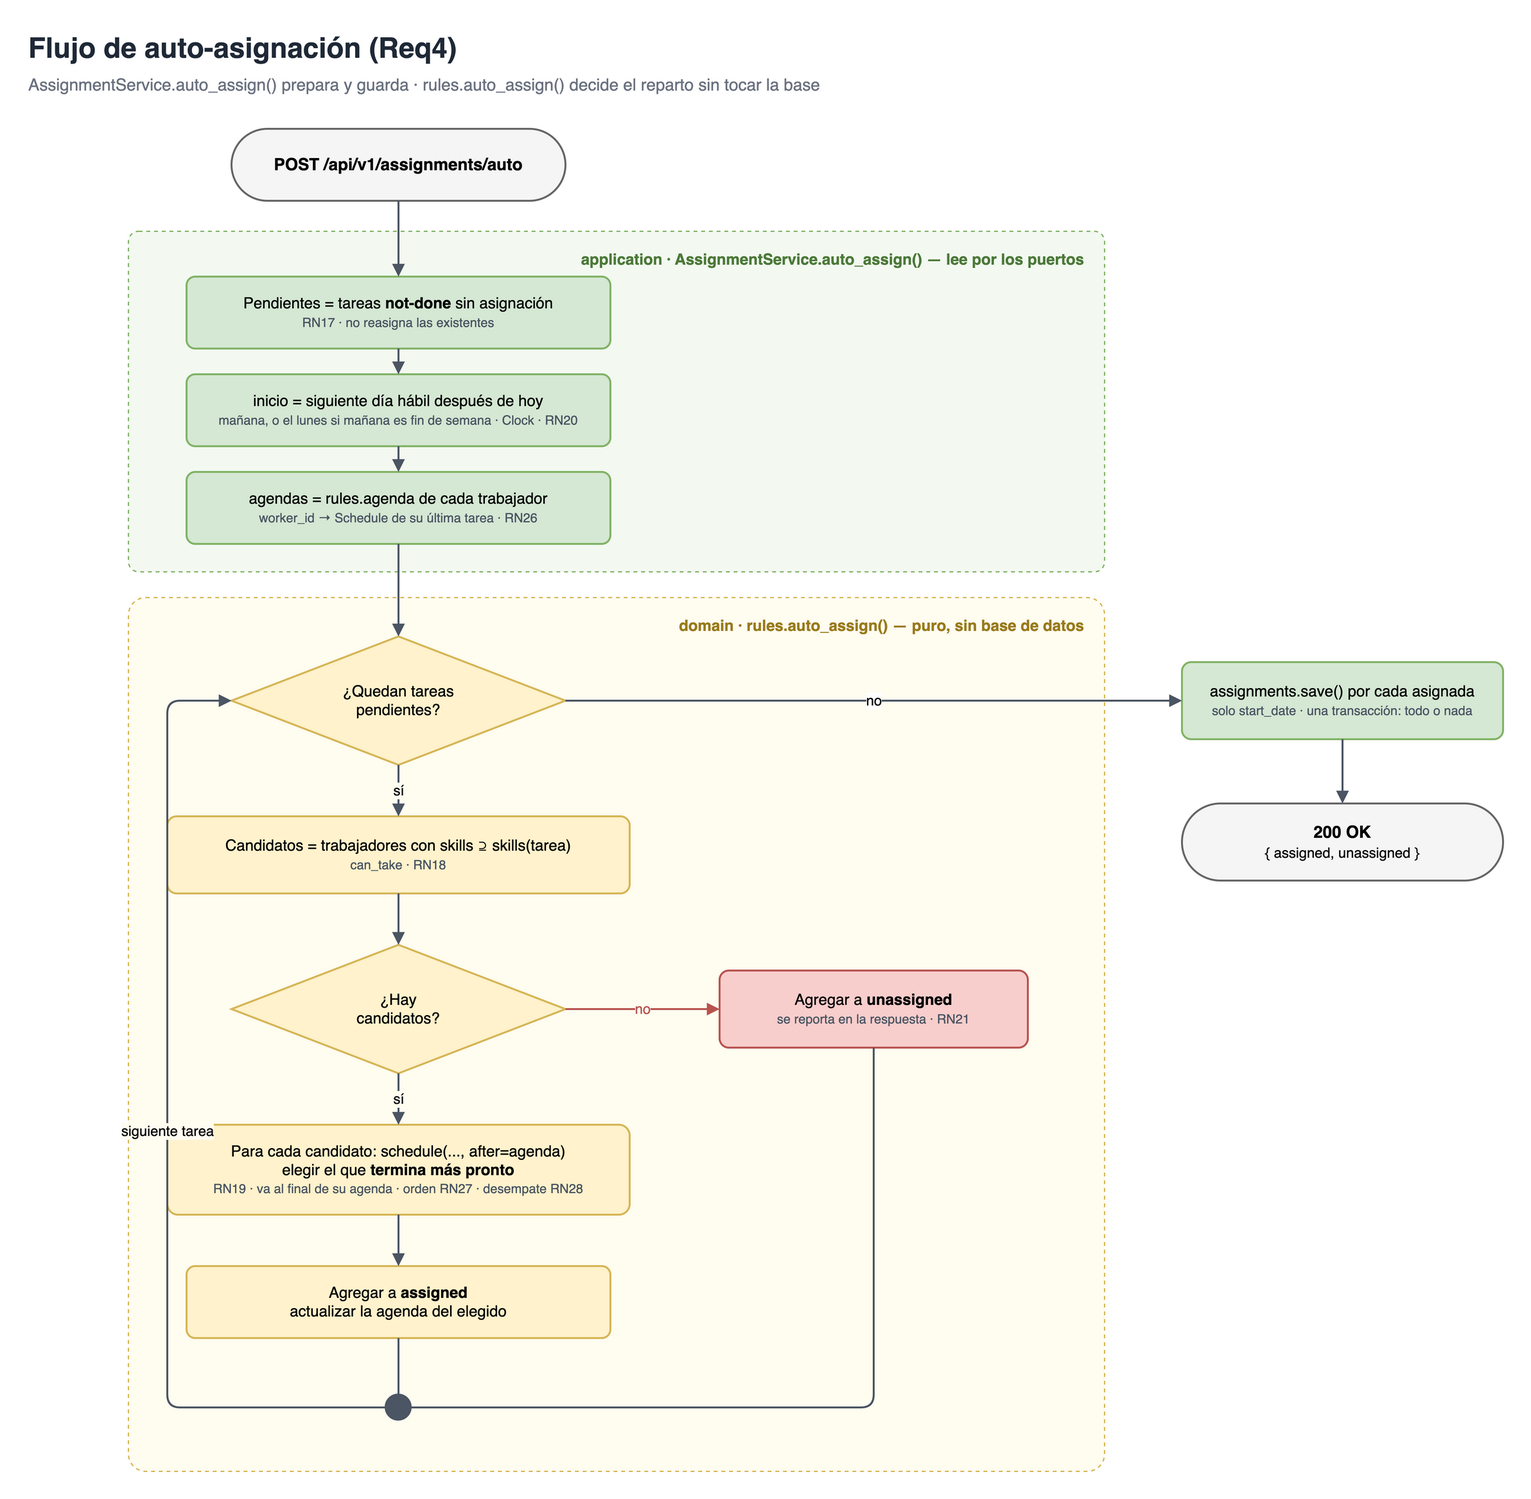
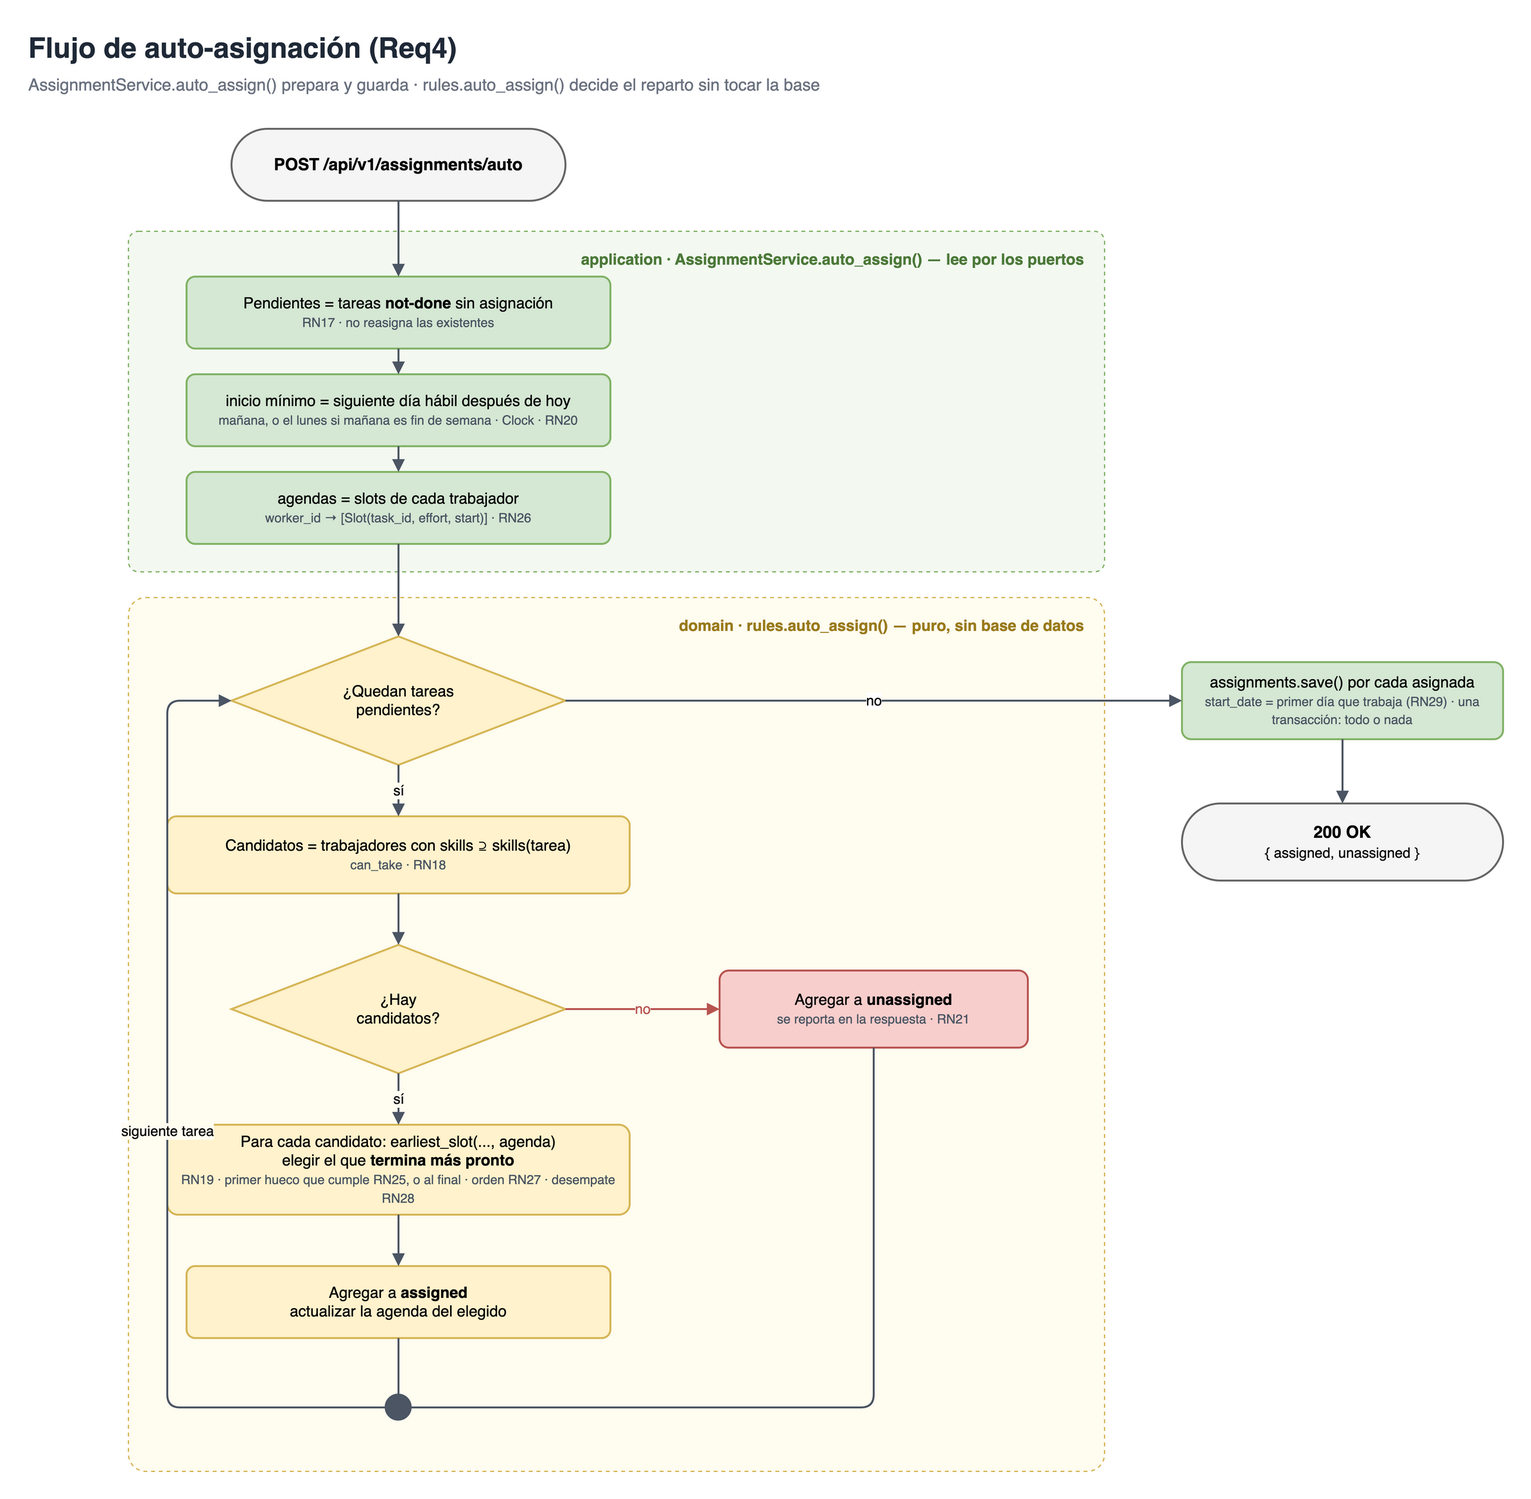
FEAT: Re-scoping business rules v3

diff --git a/backend/app/domain/rules.py b/backend/app/domain/rules.py
@@ -6,7 +6,7 @@ rápidos y con muchos casos borde.
 
 from collections.abc import Iterable
 from dataclasses import dataclass
-from datetime import date
+from datetime import date, timedelta
 
 from app.domain.models import Schedule, Task, Worker
 
@@ -65,6 +65,26 @@ def late_starts(slots: list[Slot], availability: int) -> list[int]:
     raise NotImplementedError("RN25")
 
 
+def earliest_slot(task_id: int, effort: int, availability: int, start: date, slots: list[Slot]) -> tuple[Slot, Schedule]:
+    """Primer día hábil desde `start` en que la tarea cabe en la agenda (RN19, RN29): trabaja al menos
+    1 h ese día y ninguna otra tarea pierde su día de inicio (RN25). Devuelve el slot y sus fechas.
+
+    - Usa los huecos libres antes de tareas futuras; la nueva va después de las que inician el mismo día (RN15).
+    - Un inicio más temprano nunca termina más tarde, así que el primer día válido es el que termina más pronto.
+    - Después de la última tarea de la agenda siempre cabe, así que el recorrido termina.
+    - Las tareas que ya perdían su día de inicio antes de insertar no bloquean.
+    """
+    before = set(late_starts(slots, availability))
+    day = start
+    while True:
+        if day.weekday() < 5:  # RN12, RN13
+            slot = Slot(task_id=task_id, effort=effort, start=day)
+            trial = [*slots, slot]
+            if not set(late_starts(trial, availability)) - before:
+                return slot, agenda(trial, availability)[task_id]
+        day += timedelta(days=1)
+
+
 # ---------------------------------------------------------------------------
 # Auto-asignación (RN18, RN19, RN21, RN27, RN28)
 # ---------------------------------------------------------------------------
@@ -105,18 +125,20 @@ def auto_assign(
     tasks: list[Task],
     workers: list[Worker],
     start: date,
-    agendas: dict[int, Schedule] | None = None,
+    agendas: dict[int, list[Slot]] | None = None,
 ) -> AutoAssignResult:
-    """Reparte `tasks` (ya filtradas: not-done y sin asignar) entre `workers`.
+    """Reparte `tasks` (ya filtradas: not-done, sin asignar y guardadas) entre `workers`.
 
     - Candidatos: trabajadores que cumplen las skills (RN18).
     - Recorre las tareas según `task_priority` (RN27).
+    - En cada candidato la tarea entra en el primer hueco donde cabe, o al final (`earliest_slot`, RN29).
     - Elige al candidato según `worker_priority`: el que termina más pronto según su agenda (RN19)
       y, si empatan, el desempate de RN28. La agenda se actualiza en la misma corrida.
-    - `agendas`: worker_id -> última tarea programada de ese trabajador; las nuevas van al final.
+    - `agendas`: worker_id -> slots de su agenda actual, en orden de asignación.
     - Si nadie cumple las skills, la tarea va a `unassigned` (RN21).
     """
-    last: dict[int | None, Schedule] = dict(agendas or {})  # copia: la corrida no modifica la agenda recibida
+    # copia: la corrida no modifica la agenda recibida
+    slots: dict[int | None, list[Slot]] = {worker_id: list(s) for worker_id, s in (agendas or {}).items()}
     pending = [(task, [w for w in workers if can_take(task.skills, w.skills)]) for task in tasks]
     pending.sort(key=lambda pair: task_priority(*pair))
 
@@ -126,8 +148,11 @@ def auto_assign(
         if not candidates:
             unassigned.append(task)
             continue
-        options = [(w, schedule(task.effort, w.availability, start, last.get(w.id))) for w in candidates]
-        worker, planned = min(options, key=lambda option: worker_priority(*option))
-        last[worker.id] = planned
+        assert task.id is not None
+        options = [
+            (w, *earliest_slot(task.id, task.effort, w.availability, start, slots.get(w.id, []))) for w in candidates
+        ]
+        worker, slot, planned = min(options, key=lambda option: worker_priority(option[0], option[2]))
+        slots.setdefault(worker.id, []).append(slot)
         assigned.append(Planned(task=task, worker=worker, schedule=planned))
     return AutoAssignResult(assigned=assigned, unassigned=unassigned)

diff --git a/backend/tests/unit/test_auto_assign.py b/backend/tests/unit/test_auto_assign.py
@@ -1,13 +1,15 @@
-from app.domain.models import Schedule, Task, Worker
-from app.domain.rules import auto_assign
-from tests.dates import MON_19, TUE_20, WED_21
+import pytest
+
+from app.domain.models import Task, Worker
+from app.domain.rules import Slot, auto_assign
+from tests.dates import FRI_23, MON_19, THU_22, TUE_20, TUE_27
 
 
 def test_esc23_elige_al_que_termina_antes_segun_su_agenda():
     ana = Worker(id=1, name="Ana", availability=6, skills=["python"])
     luis = Worker(id=2, name="Luis", availability=6, skills=["python"])
     task = Task(id=1, name="API", effort=6, skills=["python"])
-    agendas = {ana.id: Schedule(start=MON_19, end=WED_21, last_day_hours=6)}
+    agendas = {ana.id: [Slot(task_id=99, effort=18, start=MON_19)]}  # ocupada lun 19 a mié 21
 
     result = auto_assign([task], [ana, luis], MON_19, agendas)
 
@@ -88,3 +90,36 @@ def test_esc45_si_dos_candidatos_terminan_el_mismo_dia_gana_el_de_menor_id():
 
     [planned] = result.assigned
     assert planned.worker is luis
+
+
+@pytest.mark.parametrize(
+    ("effort", "start", "end"),
+    [
+        pytest.param(4, TUE_20, TUE_20, id="cabe-en-el-hueco"),
+        pytest.param(14, TUE_20, THU_22, id="corre-el-fin-de-f-sin-quitarle-su-dia"),
+        pytest.param(18, FRI_23, TUE_27, id="en-el-hueco-f-perderia-su-dia-va-despues"),
+    ],
+)
+def test_esc50_usa_el_hueco_libre_antes_de_una_tarea_futura(effort, start, end):
+    ana = Worker(id=1, name="Ana", availability=6, skills=["python"])
+    task = Task(id=1, name="T", effort=effort, skills=["python"])
+    agendas = {ana.id: [Slot(task_id=99, effort=6, start=THU_22)]}  # F: libre mar 20 y mié 21
+
+    result = auto_assign([task], [ana], TUE_20, agendas)
+
+    [planned] = result.assigned
+    assert (planned.schedule.start, planned.schedule.end) == (start, end)
+
+
+def test_esc50_el_hueco_cuenta_para_elegir_al_que_termina_antes():
+    # Si la tarea fuera al final de la agenda, Ana terminaría el vie 23 y ganaría Luis (mié 21)
+    luis = Worker(id=1, name="Luis", availability=4, skills=["python"])
+    ana = Worker(id=2, name="Ana", availability=6, skills=["python"])
+    task = Task(id=1, name="T", effort=6, skills=["python"])
+    agendas = {ana.id: [Slot(task_id=99, effort=6, start=THU_22)]}
+
+    result = auto_assign([task], [luis, ana], TUE_20, agendas)
+
+    [planned] = result.assigned
+    assert planned.worker is ana
+    assert planned.schedule.end == TUE_20

diff --git a/backend/tests/application/test_auto_assign_pending.py b/backend/tests/application/test_auto_assign_pending.py
@@ -1,7 +1,7 @@
 import pytest
 
 from app.application.assignments import AssignmentService
-from tests.dates import FRI_23, MON_19, MON_26, SAT_24, TUE_20
+from tests.dates import FRI_16, FRI_23, MON_19, MON_26, SAT_24, THU_22, TUE_20, WED_21
 from tests.fakes import FixedClock, InMemoryAssignmentRepository
 
 
@@ -47,3 +47,35 @@ def test_esc28_la_fecha_de_inicio_es_el_siguiente_dia_habil(
 
     [assigned] = report.assigned
     assert assigned.start_date == start
+
+
+@pytest.mark.parametrize(
+    ("effort", "busy_start", "status", "start", "end"),
+    [
+        pytest.param(6, FRI_16, "done", TUE_20, TUE_20, id="la-tarea-pasada-no-cuenta"),
+        pytest.param(4, MON_19, "not-done", TUE_20, TUE_20, id="no-usa-las-horas-que-sobran-hoy"),
+        pytest.param(10, TUE_20, "not-done", WED_21, THU_22, id="usa-las-horas-que-sobran-del-miercoles"),
+        pytest.param(12, TUE_20, "not-done", THU_22, THU_22, id="el-miercoles-esta-lleno"),
+        pytest.param(6, THU_22, "not-done", TUE_20, TUE_20, id="usa-el-hueco-antes-de-una-tarea-futura"),
+    ],
+)
+def test_esc47_con_la_agenda_ocupada_se_guarda_el_primer_dia_que_trabaja(
+    assignment_service: AssignmentService,
+    make_task,
+    make_worker,
+    make_assignment,
+    effort,
+    busy_start,
+    status,
+    start,
+    end,
+):
+    ana = make_worker("Ana", skills=["python"])
+    make_assignment(make_task("B", effort, ["python"], status=status), ana, busy_start)
+    t = make_task("T", 4, ["python"])
+
+    report = assignment_service.auto_assign()
+
+    [assigned] = report.assigned
+    assert assigned.task_id == t.id
+    assert (assigned.start_date, assigned.end_date) == (start, end)

diff --git a/backend/app/application/assignments.py b/backend/app/application/assignments.py
@@ -55,5 +55,6 @@ class AssignmentService:
 
     def auto_assign(self) -> AutoAssignReport:
         # Toma solo tareas not-done sin asignar (RN17) e inicia el siguiente día hábil después de hoy (RN20)
-        # El reparto lo decide rules.auto_assign (RN18, RN19, RN21); cada tarea va al final de la agenda
+        # El reparto lo decide rules.auto_assign (RN18, RN19, RN21) con la agenda de cada trabajador como Slots;
+        # cada tarea entra en el primer hueco donde cabe sin correr a nadie de su día de inicio, o al final (RN29)
         raise NotImplementedError("Req4, RN17 a RN21")

diff --git a/backend/tests/unit/test_schedule.py b/backend/tests/unit/test_schedule.py
@@ -61,3 +61,11 @@ def test_esc15_tarea_de_varios_dias(effort, end, last_day_hours):
     result = schedule(effort, AVAILABILITY, MON_19)
 
     assert result == Schedule(start=MON_19, end=end, last_day_hours=last_day_hours)
+
+
+def test_esc48_si_la_anterior_termina_antes_del_inicio_no_le_quita_horas():
+    a = schedule(4, AVAILABILITY, MON_19)  # le sobran 2 h el lun 19
+
+    b = schedule(4, AVAILABILITY, TUE_20, after=a)
+
+    assert b == Schedule(start=TUE_20, end=TUE_20, last_day_hours=4)

diff --git a/backend/tests/dates.py b/backend/tests/dates.py
@@ -13,3 +13,4 @@ FRI_23 = date(2026, 10, 23)
 SAT_24 = date(2026, 10, 24)
 SUN_25 = date(2026, 10, 25)
 MON_26 = date(2026, 10, 26)
+TUE_27 = date(2026, 10, 27)

diff --git a/docs/testing/bdd.md b/docs/testing/bdd.md
@@ -27,9 +27,9 @@
 
 Para que las fechas sean fijas, los escenarios usan este calendario:
 
-| vie | sáb | dom | lun | mar | mié | jue | vie | sáb | dom | lun |
-|-----|-----|-----|-----|-----|-----|-----|-----|-----|-----|-----|
-| 16-oct | 17-oct | 18-oct | **19-oct** | 20-oct | 21-oct | 22-oct | 23-oct | 24-oct | 25-oct | 26-oct |
+| vie | sáb | dom | lun | mar | mié | jue | vie | sáb | dom | lun | mar |
+|-----|-----|-----|-----|-----|-----|-----|-----|-----|-----|-----|-----|
+| 16-oct | 17-oct | 18-oct | **19-oct** | 20-oct | 21-oct | 22-oct | 23-oct | 24-oct | 25-oct | 26-oct | 27-oct |
 
 - En application e integration, **hoy = lun 19-oct-2026** salvo que el escenario diga otra cosa.
 - Salvo que se indique, el trabajador tiene **6 h/día**.
@@ -319,7 +319,7 @@ Archivos: `backend/tests/integration/test_assignments_api.py` (ESC-16) y `backen
 
 ## 6. Auto-asignación (Req4)
 
-Archivos: `backend/tests/unit/test_auto_assign.py` (ESC-23 a ESC-26, ESC-43 a ESC-45), `backend/tests/application/test_auto_assign_pending.py` (ESC-27, ESC-28) y `backend/tests/integration/test_auto_assign_api.py` (ESC-29)
+Archivos: `backend/tests/unit/test_auto_assign.py` (ESC-23 a ESC-26, ESC-43 a ESC-45, ESC-50), `backend/tests/application/test_auto_assign_pending.py` (ESC-27, ESC-28, ESC-47) y `backend/tests/integration/test_auto_assign_api.py` (ESC-29)
 
 ### ESC-23 · Elige al que termina antes según su agenda
 `RN19` · `unit`
@@ -370,6 +370,21 @@ Archivos: `backend/tests/unit/test_auto_assign.py` (ESC-23 a ESC-26, ESC-43 a ES
 - **Cuando** auto-asigno una tarea de 6 h desde lun 19
 - **Entonces** queda asignada a "Luis"
 
+### ESC-50 · Usa el hueco libre antes de una tarea futura · edge
+`RN19`, `RN25`, `RN29` · `unit`
+
+- **Dado** que "Ana" (6 h/día) solo tiene F (6 h, inicio jue 22)
+- **Cuando** auto-asigno la tarea T de `<esfuerzo>` desde mar 20
+- **Entonces** T inicia el `<inicio>` y termina el `<fin>`
+
+| esfuerzo | inicio | fin | nota |
+|----------|--------|-----|------|
+| 4 h | mar 20 | mar 20 | cabe en el hueco de mar 20 y mié 21 |
+| 14 h | mar 20 | jue 22 | corre el fin de F, que conserva 4 h el jue 22 |
+| 18 h | vie 23 | mar 27 | edge: en el hueco F perdería su día de inicio; va después de F |
+
+- **Y si** "Luis" (4 h/día, libre) también es candidato y T es de 6 h, queda asignada a "Ana" (termina mar 20; Luis terminaría mié 21, y al final de la agenda Ana terminaría vie 23)
+
 ### ESC-27 · Asigna solo las tareas pendientes y no toca las existentes
 `RN17` · `application`
 
@@ -406,6 +421,7 @@ Archivos: `backend/tests/unit/test_auto_assign.py` (ESC-23 a ESC-26, ESC-43 a ES
 | B (4 h, inicio lun 19) | mar 20 | mar 20 | no usa las 2 h que sobran hoy |
 | B (10 h, inicio mar 20) | mié 21 | jue 22 | usa las 2 h que sobran del mié |
 | B (12 h, inicio mar 20) | jue 22 | jue 22 | el mié está lleno |
+| B (6 h, inicio jue 22) | mar 20 | mar 20 | usa el hueco antes de la tarea futura (RN19) |
 
 ### ESC-29 · La respuesta reporta las tareas que no se pudieron asignar
 `RN21` · `integration`
@@ -555,17 +571,17 @@ Archivos: `e2e/tests/smoke.spec.ts` (ESC-33) y `e2e/tests/demo.spec.ts` (ESC-34 
 | RN16 | ESC-09, ESC-10, ESC-14, ESC-15 |
 | RN17 | ESC-27 |
 | RN18 | ESC-26 |
-| RN19 | ESC-23, ESC-24, ESC-25 |
+| RN19 | ESC-23, ESC-24, ESC-25, ESC-47, ESC-50 |
 | RN20 | ESC-28, ESC-47, ESC-48 |
 | RN21 | ESC-26, ESC-29 |
 | RN22 | ESC-30, ESC-42 |
 | RN23 | ESC-31 |
 | RN24 | ESC-32, ESC-37, ESC-49 |
-| RN25 | ESC-37, ESC-39, ESC-40, ESC-41, ESC-42, ESC-46, ESC-47 |
+| RN25 | ESC-37, ESC-39, ESC-40, ESC-41, ESC-42, ESC-46, ESC-47, ESC-50 |
 | RN26 | ESC-30, ESC-38, ESC-40, ESC-49 |
 | RN27 | ESC-43, ESC-44 |
 | RN28 | ESC-45 |
-| RN29 | ESC-47 |
+| RN29 | ESC-47, ESC-50 |
 | RN30 | ESC-37, ESC-49 |
 
 ---
@@ -581,6 +597,7 @@ Al escribir los escenarios aparecieron ambigüedades que las reglas actuales no 
 - **Algoritmo de la auto-asignación:** v1 provisional: las tareas se recorren *most-constrained-first* y, si empatan, por menor id. Pasó a RN27 (ESC-43, ESC-44).
 - **Empate en RN19:** v1 provisional: gana el candidato de menor id. Pasó a RN28 (ESC-45).
 - **Inicio de la auto-asignación con la agenda ocupada:** se guarda el primer día en que la tarea trabaja horas, y las tareas que terminan antes de la fecha de RN20 no cuentan. Pasó a RN20 y RN29 (ESC-47, ESC-48).
+- **Huecos libres antes de una tarea futura:** la auto-asignación usa el primer hueco donde la tarea cabe sin que nadie pierda su día de inicio; si no cabe en ninguno, va al final. Pasó a RN19 y RN29 (ESC-47, ESC-50).
 - **Desasignar:** se puede eliminar una asignación y después borrar la tarea. Pasó a RN30 (ESC-49).
 
 **Pendiente de mejorar:** RN27 y RN28 son una primera versión. El algoritmo está aislado en `task_priority` y `worker_priority` (`app/domain/rules.py`); al cambiarlo, ESC-23 a ESC-26 deben seguir pasando y ESC-43 a ESC-45 se reemplazan por los escenarios de la nueva versión.

diff --git a/docs/alcance/negocio.md b/docs/alcance/negocio.md
@@ -73,9 +73,9 @@
 
 - **RN17:** Asigna de una sola vez todas las tareas `not-done` sin asignar; no reasigna las existentes **(decisión)**.
 - **RN18:** Para cada tarea, los candidatos son los trabajadores que cumplen RN6 **(enunciado)**.
-- **RN19:** Entre los candidatos, elige al que termina la tarea más pronto, según su agenda actual; la tarea va al final de esa agenda **(decisión)**. El orden de recorrido y el desempate los fijan RN27 y RN28.
+- **RN19:** Entre los candidatos, elige al que termina la tarea más pronto, según su agenda actual. La tarea entra en el primer hueco de esa agenda donde cabe sin que ninguna tarea pierda su día de inicio (RN25); si no cabe en ningún hueco, va al final **(decisión)**. El orden de recorrido y el desempate los fijan RN27 y RN28.
 - **RN20:** La auto-asignación no programa nada antes del siguiente día hábil después de hoy: mañana, o el lunes si mañana cae en fin de semana. Las tareas de la agenda que terminan antes de esa fecha (incluidas las `done`, RN23) no le quitan horas, y tampoco se usan las horas que sobran de hoy **(decisión)**.
-- **RN29:** La agenda del trabajador puede estar ocupada. La fecha de inicio que se guarda es el primer día en que la tarea realmente trabaja horas: la fecha de RN20 si el trabajador tiene horas libres ese día; si no, el día en que termina la última tarea de su agenda, cuando le sobran horas, o el siguiente día hábil. Así la asignación cumple RN25 **(decisión)**.
+- **RN29:** La fecha de inicio que se guarda es el primer día hábil, desde la fecha de RN20, en que la tarea trabaja al menos 1 h y la inserción cumple RN25. Si el trabajador tiene horas libres el día de RN20, es ese día aunque tenga tareas más adelante; si la tarea no cabe en un hueco, se prueba el siguiente, y después de la última tarea de la agenda siempre cabe. Un inicio más temprano nunca termina más tarde, así que ese día es también el que termina la tarea más pronto (RN19) **(decisión)**.
 - **RN21:** Si ningún trabajador cumple las skills, la tarea queda sin asignar y se reporta en el resultado **(decisión)**.
 - **RN27:** Las tareas se recorren de la que tiene menos candidatos a la que tiene más (*most-constrained-first*), para que los trabajadores con skills escasas no se llenen de tareas que otros pueden hacer; si empatan, va primero la de menor id **(decisión, provisional: v1)**.
 - **RN28:** Si dos candidatos terminan la tarea el mismo día, gana el de menor id **(decisión, provisional: v1)**.
@@ -89,6 +89,16 @@
 | B (4 h, lun 19): hoy le sobran 2 h | mar 4 h | mar 20 | mar 20 |
 | B (10 h, mar 20): mar 6 h · mié 4 h | mié 2 h · jue 2 h | mié 21 | jue 22 |
 | B (12 h, mar 20): mar 6 h · mié 6 h | jue 4 h | jue 22 | jue 22 |
+
+**Ejemplo de huecos (RN19, RN29):** misma fecha de RN20 (mar 20). "Ana" (6 h/día) solo tiene F (6 h, inicio jue 22), así que mar 20 y mié 21 están libres.
+
+| T | Horas de T | Inicio guardado | Fin | Qué pasa |
+|---|------------|-----------------|-----|----------|
+| 4 h | mar 4 h | mar 20 | mar 20 | Usa el hueco; F no cambia |
+| 14 h | mar 6 h · mié 6 h · jue 2 h | mar 20 | jue 22 | F conserva 4 h el jue 22 y su fin pasa al vie 23 (RN25) |
+| 18 h | vie 6 h · lun 6 h · mar 6 h | vie 23 | mar 27 | En el hueco F se quedaría sin horas el jue 22; va después de F |
+
+Si además "Luis" (4 h/día, libre) es candidato para T de 6 h, gana Ana: termina el mar 20 usando el hueco, y Luis terminaría el mié 21.
 
 > RN27 y RN28 son una primera versión del algoritmo. Viven en `task_priority` y `worker_priority` de `app/domain/rules.py`, así que se pueden cambiar sin tocar el resto de `auto_assign`.
 

diff --git a/docs/testing.md b/docs/testing.md
@@ -62,13 +62,13 @@ backend/tests/
 ├── fakes.py                        # dobles de los puertos: repositorios en memoria y FixedClock
 ├── unit/                           # reglas puras (prueban app/domain/rules.py)
 │   ├── test_skills.py              # ESC-08
-│   ├── test_schedule.py            # ESC-09 a ESC-15
+│   ├── test_schedule.py            # ESC-09 a ESC-15, ESC-48
 │   ├── test_agenda.py              # ESC-38, ESC-39, ESC-46
-│   └── test_auto_assign.py         # ESC-23 a ESC-26, ESC-43 a ESC-45
+│   └── test_auto_assign.py         # ESC-23 a ESC-26, ESC-43 a ESC-45, ESC-50
 ├── application/                    # casos de uso con dobles: sin DB ni HTTP (prueban app/application/)
 │   ├── conftest.py                 # repositorios en memoria, reloj fijo, servicios y fábricas
 │   ├── test_assign_manually.py     # ESC-17 a ESC-22, ESC-40, ESC-41
-│   ├── test_auto_assign_pending.py # ESC-27, ESC-28
+│   ├── test_auto_assign_pending.py # ESC-27, ESC-28, ESC-47
 │   └── test_edit_delete.py         # ESC-30 a ESC-32, ESC-42
 └── integration/                    # adaptadores reales: API + Postgres (taskworkers_test)
     ├── conftest.py                 # client, session con rollback, "hoy" fijo y fábricas
